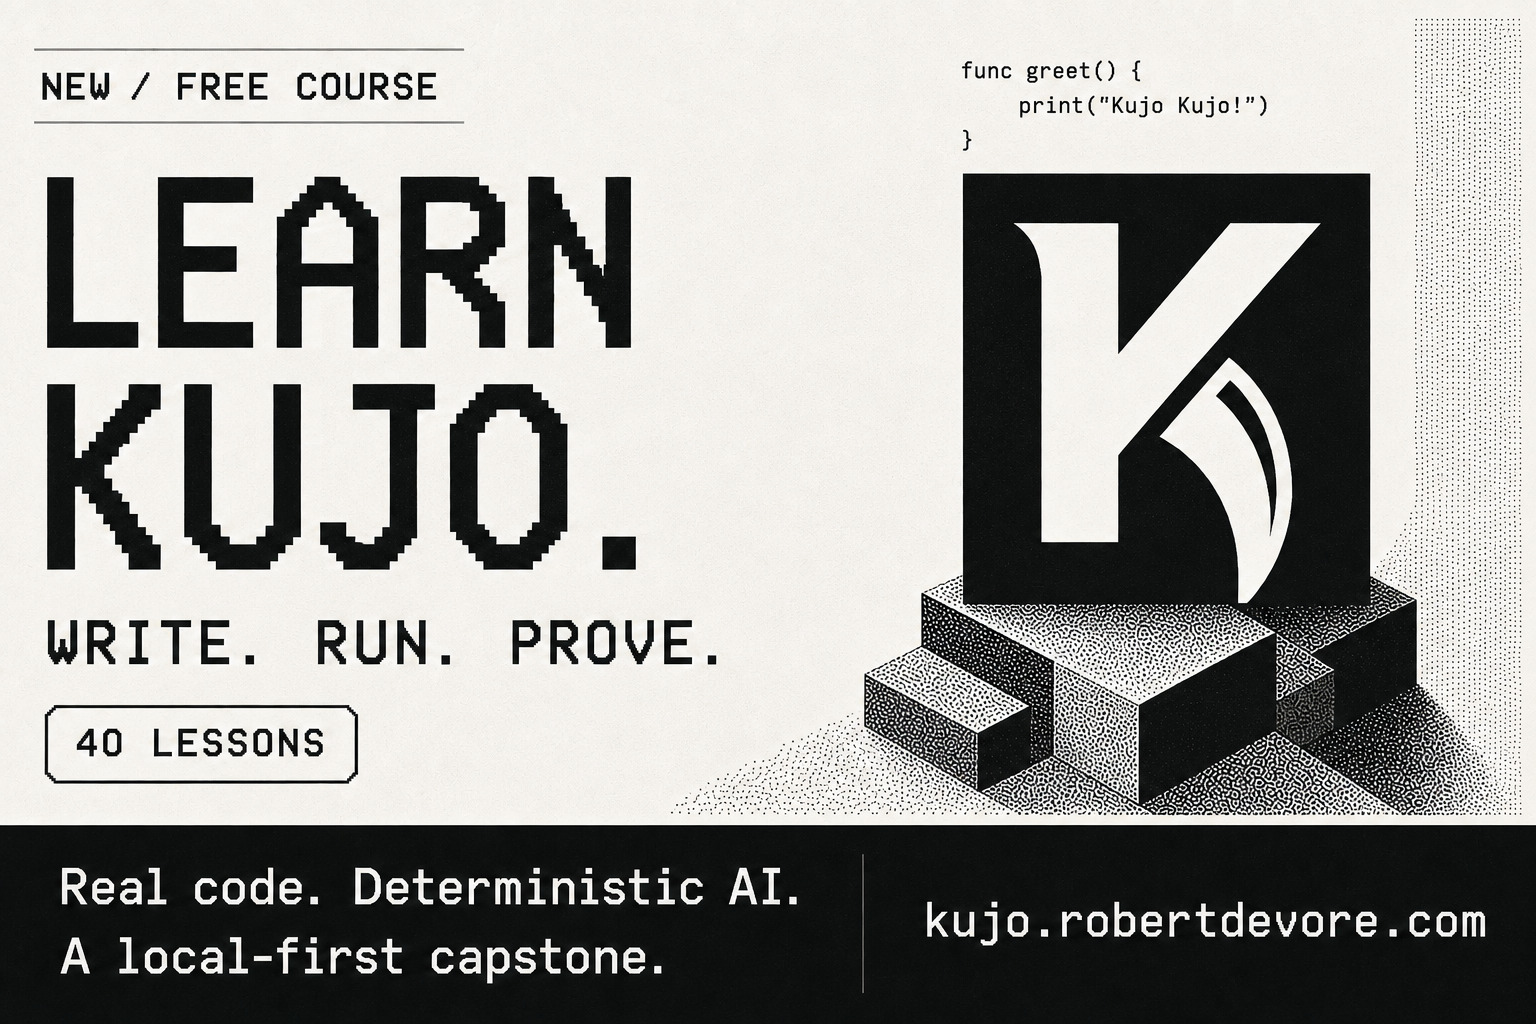
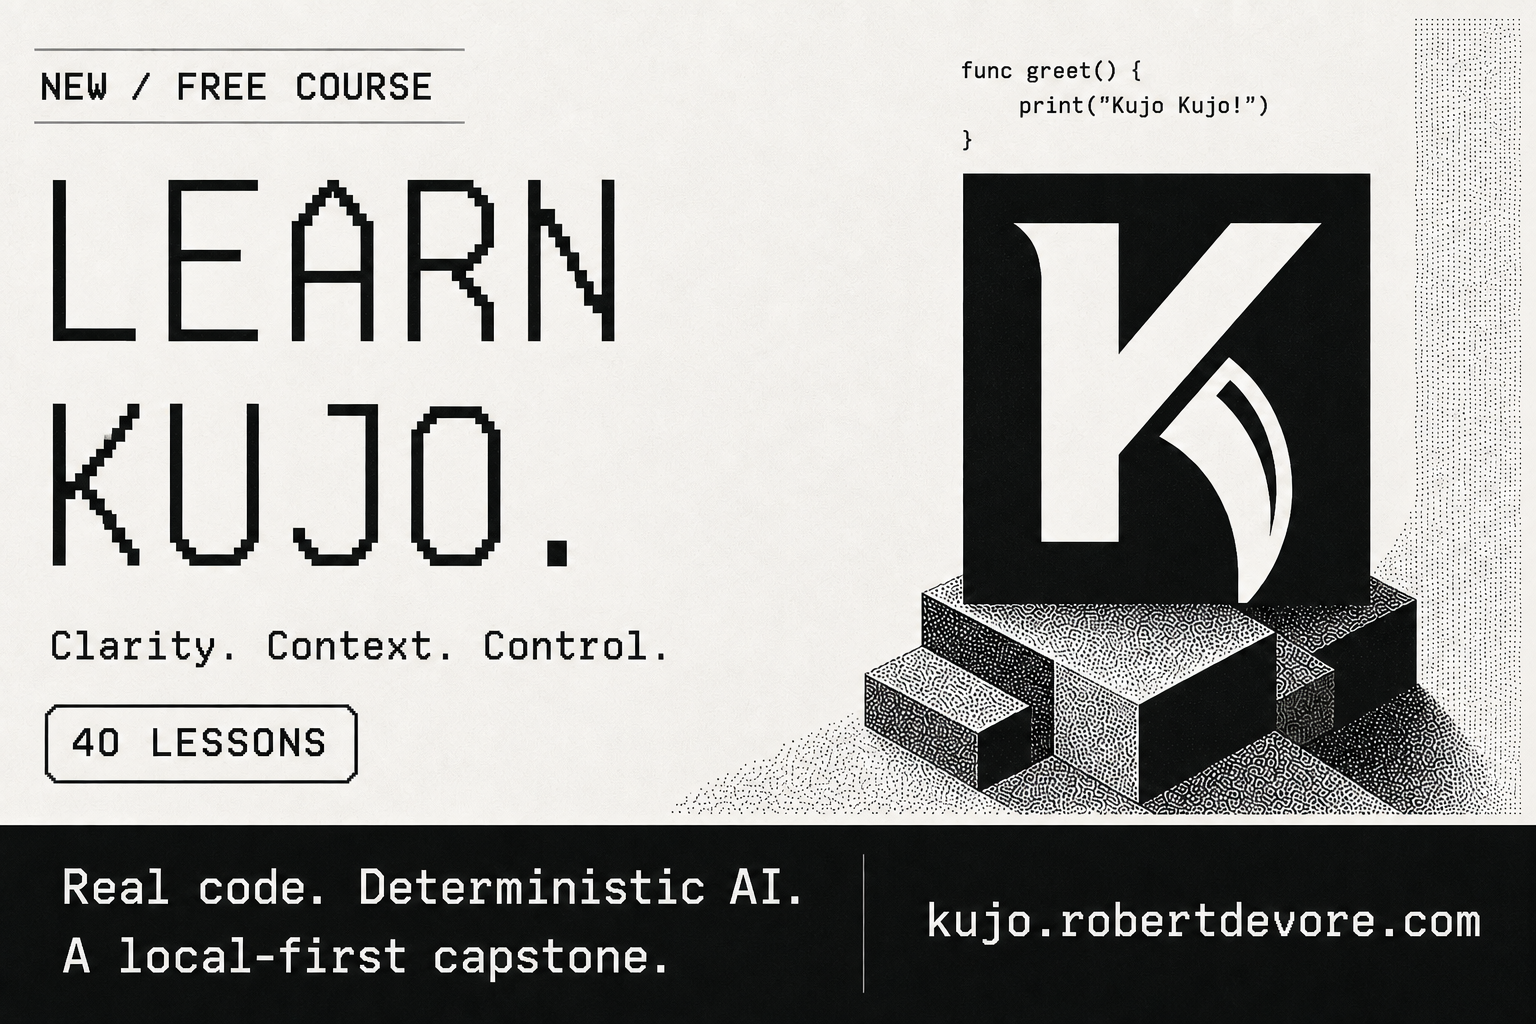
Refine launch poster typography and tagline

diff --git a/media/README.md b/media/README.md
@@ -1,5 +1,7 @@
 # Kujo course launch image
 
+Revision: the user requested Departure Mono and the exact tagline `Clarity. Context. Control.`. The updated raster uses a browser-rendered specimen of `assets/fonts/DepartureMono-Regular.woff2` as the typography reference. Visually verified the corrected tagline and lighter letterforms. Typography is image-generated from that specimen, not embedded font text. This correction supersedes the previous `WRITE. RUN. PROVE.` poster tagline. The website itself was not changed.
+
 `kujo-course-launch.png` is a 1536 × 1024 social-media poster created on 2026-09-07 with built-in image generation. It follows the earlier Rust and TypeScript course launch posters, using monochrome artwork and the official Kujo K mark as a visual reference.
 
 References:
